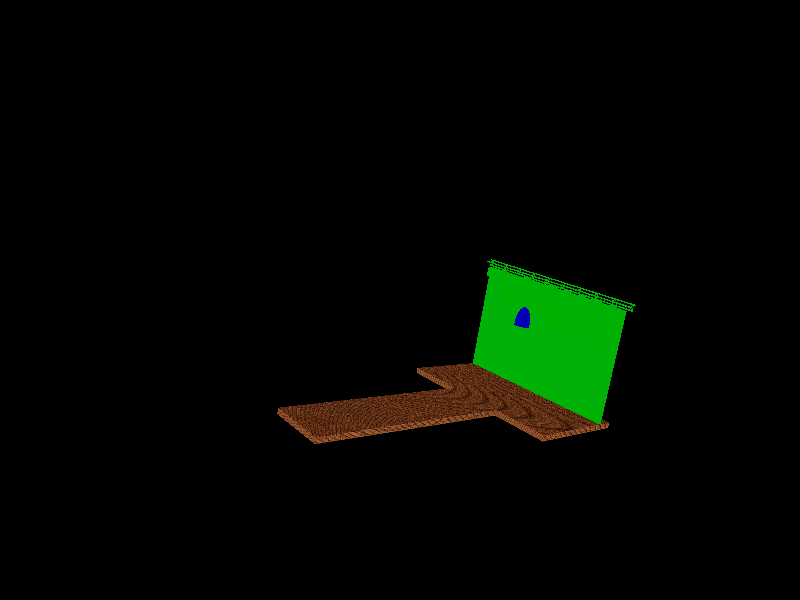
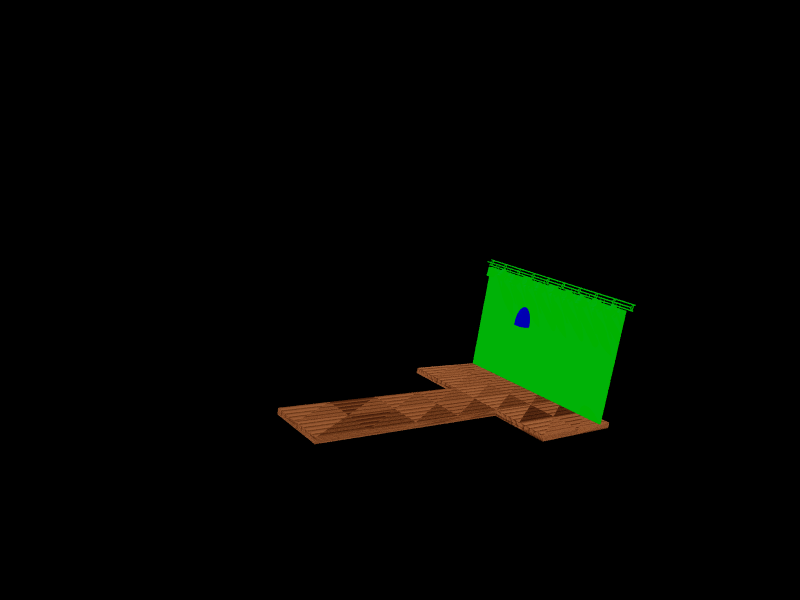
wood fixing

Changed region(s): [[0.3438, 0.6, 0.7812, 0.75], [0.5938, 0.42, 0.7188, 0.48], [0.7188, 0.48, 0.7812, 0.51]]

diff --git a/main/a_rendering.cpp b/main/a_rendering.cpp
@@ -65,7 +65,7 @@ void a_rendering()
 	// Material* lamp_mat = new PhongMaterial(greentex, 20.0f);
 	Material* lamp_mat = new LambertianMaterial(bluetex, bluetex);
     Material* other_mat = new LambertianMaterial(greentex, bluetex);
-    ImageTexture* nearTex = new ImageTexture("models/wood1.png", ImageTexture::REPEAT, ImageTexture::NEAREST);
+    ImageTexture* nearTex = new ImageTexture("models/wood1.png", ImageTexture::REPEAT, ImageTexture::BILINEAR);
     FlatMaterial* near = new FlatMaterial(nearTex);
 
 
@@ -102,6 +102,7 @@ void a_rendering()
     // RayCastingIntegrator integrator(&world);
     RecursiveRayTracingIntegrator integrator(&world);
     Renderer engine1(&cam1, &integrator);
+	engine1.setSamples(20);
     engine1.render(img);
     img.writePNG("3_scene.png");
 }

diff --git a/rt/coordmappers/tmapper.cpp b/rt/coordmappers/tmapper.cpp
@@ -4,7 +4,7 @@
 namespace rt
 {
     TriangleMapper::TriangleMapper(const Point& tv0, const Point& tv1, const Point& tv2)
-    : tv0(tv0), tv1(tv1), tv2(tv2){}
+    : tv0(tv0), tv1(tv1), tv2(tv2){} 
     TriangleMapper::TriangleMapper(Point ntv[3])
     : tv0(ntv[0]), tv1(ntv[1]), tv2(ntv[2]){}
     Point TriangleMapper::getCoords(const Intersection& hit) const

diff --git a/rt/loaders/obj.cpp b/rt/loaders/obj.cpp
@@ -1,4 +1,4 @@
-#define DISABLE_COORDMAPPERS
+//#define DISABLE_COORDMAPPERS
 //#define DISABLE_SMOOTH_TRIANGLE
 //#define DISABLE_MATERIALS
 
